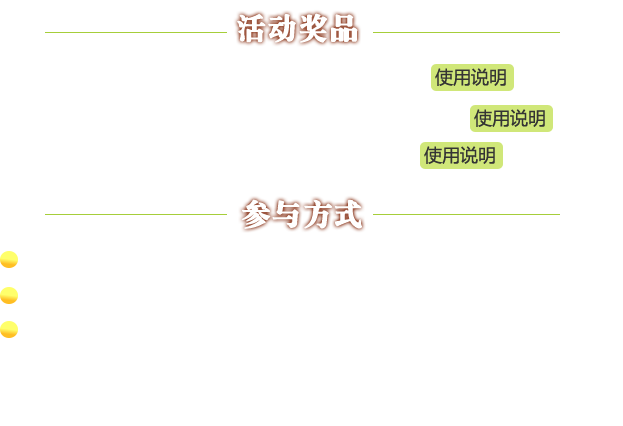
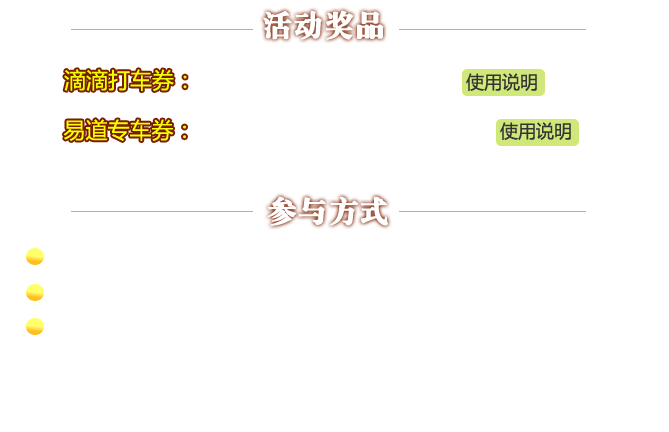
圣诞节页面更新

diff --git a/html5/canvas/clip.html b/html5/canvas/clip.html
@@ -8,6 +8,8 @@
 	</head>
 	<body>
 		<canvas id="test_clip" width=400 height=400></canvas>
+		<canvas id="test_clip_1" width=400 height=400 style="border: 1px solid #ccc;"></canvas>
+		<canvas id="test_clip_2" width=400 height=400></canvas>
 		
 		<script type="text/javascript">
 		var canvas = document.getElementById('test_clip');
@@ -75,6 +77,169 @@
 		ctx.fill();
 
 		ctx.fillRect(10,10,20,20);
+
+
+		!function(){
+			// var img = new Image();
+			// img.onload = function(){
+			// 	var canvas = document.getElementById('test_clip_1');
+			// 	var ctx = canvas.getContext('2d');
+			// 	draw_img_dir(ctx,300,30,{
+			// 		color: 'green',
+			// 		angle: 30
+			// 	});
+			// 	// ctx.fillRect(100,100,10,10);
+			// 	draw_img_dir(ctx,30,30,{
+			// 		color: 'blue',
+			// 		angle: 30
+			// 	});
+			// }
+			// img.src = 'http://h.hiphotos.baidu.com/super/whfpf%3D425%2C260%2C50/sign=96e8a388223fb80e0c84329750ec1b1c/503d269759ee3d6dc2fa287240166d224f4ade4f.jpg';
+			// var width = 30,
+			// 	height = 30; 
+			// var draw_img_dir = (function(){
+			// 	var scale = 2;
+			// 	var width = 6*scale,
+			// 		height = 4*scale;
+			// 	var canvas_pattern = document.createElement('canvas');
+			// 	canvas_pattern.setAttribute('width',width);
+			// 	canvas_pattern.setAttribute('height',height);
+			// 	var ctx_pattern = canvas_pattern.getContext('2d');
+
+			// 	// ctx_pattern.rotate(Math.PI / 4);
+			// 	ctx_pattern.beginPath(); // 开始路径绘制
+			// 	ctx_pattern.moveTo(0, 1*scale);
+			// 	ctx_pattern.lineTo(0, 3*scale);
+			// 	ctx_pattern.lineTo(4*scale, 3*scale);
+			// 	ctx_pattern.lineTo(4*scale, 4*scale);
+			// 	ctx_pattern.lineTo(6*scale, 2*scale);
+			// 	ctx_pattern.lineTo(4*scale, 0);
+			// 	ctx_pattern.lineTo(4*scale, 1*scale);
+			// 	ctx_pattern.closePath();
+
+			// 	ctx_pattern.fill();
+			// 	ctx_pattern.save();
+			// 	var TO_RADIANS = Math.PI/180; 
+			// 	document.body.appendChild(canvas_pattern);
+			// 	return function(ctx,x,y,option){
+			// 		var angle = -(option.angle) * TO_RADIANS;
+			// 		// x = x - width/2;
+			// 		// y = y - height/2;
+			// 		// ctx.save();
+			// 		// ctx.translate( width/2, height/2 );
+			// 		// ctx.rotate( angle );
+			// 		// ctx.translate( -width/2, -height/2 );
+			// 		// ctx.drawImage( canvas_pattern, 0, 0 );
+			// 		// ctx.restore();
+
+			// 		ctx.translate(x + width / 2,y + height / 2);
+			// 		ctx.rotate(angle);
+			// 		ctx_pattern.fillStyle = option.color || 'rgba(0,255,255,1)';
+			// 		ctx_pattern.fill();
+			// 		ctx.drawImage(canvas_pattern, width / 2 * (-1),height / 2 * (-1),width, height);
+			// 		ctx.rotate(-angle);
+			// 		ctx.translate((x + width / 2) * (-1),(y + height / 2) * (-1));
+
+			// 		// ctx.save();
+			// 		// x = x - width/2;
+			// 		// y = y - height/2;
+			// 		// ctx.translate(x,y);
+			// 		// ctx.rotate(angle);
+			// 		// ctx.drawImage(canvas_pattern, 0,0);
+			// 		// ctx.restore();
+
+			// 		// ctx.save();
+			// 		// x = x - width/2;
+			// 		// y = y - height/2;
+			// 		// ctx.translate(x,y);
+			// 		// ctx.rotate();
+
+			// 		// ctx_pattern.fillStyle = option.color || 'rgba(0,255,255,1)';
+			// 		// ctx_pattern.fill();
+			// 		// ctx.drawImage(canvas_pattern,0,0);
+			// 		// ctx.restore();
+			// 	}
+			// })();
+
+			var drawArrow = (function(){
+				function trans(s_x,s_y,p_x,p_y,angle){
+					var r = Math.sqrt(Math.pow(s_x-p_x,2)+Math.pow(s_y-p_y,2));
+					var angle_old = 0;
+					if(s_y == p_y){
+						angle_old = (s_x > p_x?-1: 1)*Math.PI;
+					}else if(s_x == p_x){
+						angle_old = (s_y > p_y?-1: 1)*Math.PI/2;
+					}else{
+						angle_old = Math.atan((p_y-s_y)/(p_x-s_x));
+					}
+					angle = angle_old + angle;
+					var x = s_x + r* Math.sin(angle);
+					var y = s_y + r* Math.cos(angle);
+					return [x,y]
+				}
+				trans(10,10,10,10,Math.PI/2);
+				var scale = 1;
+				function _drawArrow(ctx,x,y,option){
+					ctx.save();
+					var angle = option.angle;
+					ctx.moveTo.apply(ctx,trans(x,y,x-4*scale,y+1*scale,angle));
+					ctx.lineTo.apply(ctx,trans(x,y,x-4*scale,y-1*scale,angle));
+					ctx.lineTo.apply(ctx,trans(x,y,x,y+1*scale,angle));
+					ctx.lineTo.apply(ctx,trans(x,y,x,y+3*scale,angle));
+					ctx.lineTo.apply(ctx,trans(x,y,x+4*scale,y,angle));
+					ctx.lineTo.apply(ctx,trans(x,y,x,y-3*scale,angle));
+					ctx.lineTo.apply(ctx,trans(x,y,x,y-1*scale,angle));
+					ctx.closePath();
+					ctx.fillStyle = option.color;
+					ctx.fill();
+					ctx.restore();
+				}
+				return function(ctx,x,y,option){
+					_drawArrow(ctx,x,y,option);
+				}
+			})();
+			
+
+			var canvas = document.getElementById('test_clip_1');
+			var ctx = canvas.getContext('2d');
+			drawArrow(ctx,100,100,{
+				angle: -Math.PI/2,
+				color: 'green'
+			});
+			var angle = 0;
+			// function loop(){
+			// 	ctx.clearRect(0,0,400,400);
+			// 	draw_img_dir(ctx,100,30,{
+			// 		color: 'green',
+			// 		angle: angle += 5
+			// 	});
+			// 	setTimeout(loop,10);
+			// }
+			// loop();
+			// function many(){
+			// 	for(var i = 0;i<10;i++){
+			// 		draw_img_dir(ctx,i*40,30,{
+			// 			color: 'green',
+			// 			angle: 2*i
+			// 		});
+			// 	}
+			// }
+			// many();
+
+			// // ctx.fillRect(100,100,10,10);
+			// draw_img_dir(ctx,30,30,{
+			// 	color: 'blue',
+			// 	angle: 30
+			// });
+			// draw_img_dir(ctx,30,10,{
+			// 	color: 'black',
+			// 	angle: 20
+			// });
+			// draw_img_dir(ctx,100,10,{
+			// 	color: 'blue',
+			// 	angle: 90
+			// });
+		}()
 		</script>
 	</body>
 </html>

diff --git a/pages/christmas2014/index.html b/pages/christmas2014/index.html
@@ -16,7 +16,6 @@
 				<img src="./img/text_index.png" class="imgs_text_index"/>
 				<a href="javascript:;" id="btn_didi"></a>
 				<a href="javascript:;" id="btn_yidao"></a>
-				<a href="javascript:;" id="btn_luobo"></a>
 			</div>
 			<script type="text/javascript">
 			var btn_html = '';
@@ -33,9 +32,6 @@
 
 			<div id="desc_didi">
 				<img src="./img/text_didi.png"/>
-			</div>
-			<div id="desc_luobo">
-				<img src="./img/text_luobo.png"/>
 			</div>
 			<div id="desc_yidao">
 				<img src="./img/text_yidao.png"/>

diff --git a/pages/christmas2014/index.css b/pages/christmas2014/index.css
@@ -41,10 +41,7 @@ img{
 	top: 14%;
 }
 #btn_yidao{
-	top: 24%;
-}
-#btn_luobo{
-	top: 32%;
+	top: 24.5%;
 }
 
 #text_main{
